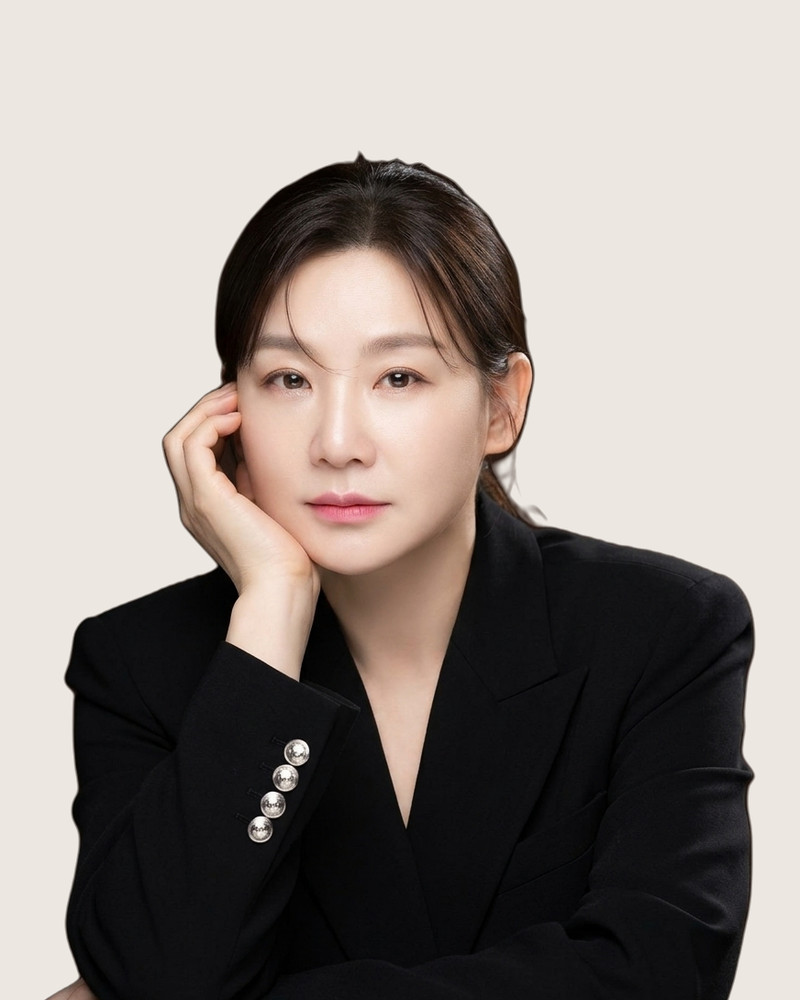
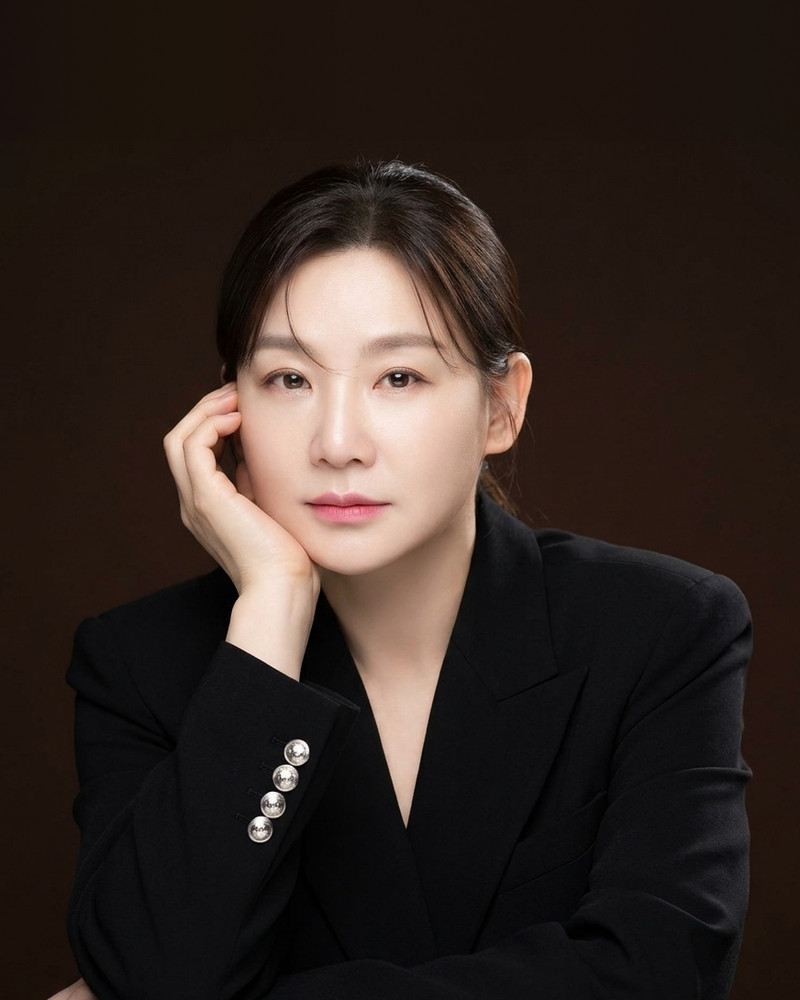
디자이너 사진을 원본 어두운 배경 그대로 교체

diff --git a/ja/designers/index.html b/ja/designers/index.html
@@ -317,7 +317,7 @@
     <nav class="designer-jump" aria-label="デザイナーへ移動"><a href="#designer-hyeona"><span class="nw">Hyeona</span>（<span class="nw">현아</span>）<small>副院長</small></a><a href="#designer-yumi"><span class="nw">Yumi</span>（<span class="nw">유미</span>）<small><span class="nw">ディレクター</span></small></a><a href="#designer-yeongju"><span class="nw">Yeongju</span>（<span class="nw">영주</span>）<small><span class="nw">ディレクター</span></small></a><a href="#designer-miji"><span class="nw">Miji</span> Lee（<span class="nw">이미지</span>）<small>副院長</small></a></nav>
     <div class="designer-grid">
       <article class="designer-card" id="designer-hyeona">
-        <img src="/images/designer-hyeona.jpg?v=c3d0188e" alt="清州市慕忠洞の美容室 RIAHN Hair Mochung SeowondaeのHyeona（현아） 副院長 - レイヤードCカール・CSカール・ビルドパーマ・ゼリーパーマ・ビンテージパーマ・アイロンパーマ・ホットパーマ・補修パーマ" width="800" height="1000" loading="eager" fetchpriority="high">
+        <img src="/images/designer-hyeona.jpg?v=7af24c1c" alt="清州市慕忠洞の美容室 RIAHN Hair Mochung SeowondaeのHyeona（현아） 副院長 - レイヤードCカール・CSカール・ビルドパーマ・ゼリーパーマ・ビンテージパーマ・アイロンパーマ・ホットパーマ・補修パーマ" width="800" height="1000" loading="eager" fetchpriority="high">
         <div class="designer-body">
           <div class="role"><span class="nw">Deputy</span> <span class="nw">Director</span></div>
           <h3><span class="ks"><span class="nw">Hyeona</span>（<span class="nw">현아</span>）</span> <small>副院長</small></h3>
@@ -328,7 +328,7 @@
         </div>
       </article>
       <article class="designer-card" id="designer-yumi">
-        <img src="/images/designer-yumi.jpg?v=b0565e35" alt="清州市慕忠洞の美容室 RIAHN Hair Mochung SeowondaeのYumi（유미） ディレクター - ビルドパーマ・ゼリーパーマ・ビンテージパーマ・補修パーマ・タッセルカット・ハッシュカット・ブリーチ・デザインカラー・パーソナルカラー" width="800" height="1000" loading="lazy">
+        <img src="/images/designer-yumi.jpg?v=ce866c8c" alt="清州市慕忠洞の美容室 RIAHN Hair Mochung SeowondaeのYumi（유미） ディレクター - ビルドパーマ・ゼリーパーマ・ビンテージパーマ・補修パーマ・タッセルカット・ハッシュカット・ブリーチ・デザインカラー・パーソナルカラー" width="800" height="1000" loading="lazy">
         <div class="designer-body">
           <div class="role"><span class="nw">Director</span></div>
           <h3><span class="ks"><span class="nw">Yumi</span>（<span class="nw">유미</span>）</span> <small><span class="nw">ディレクター</span></small></h3>
@@ -340,7 +340,7 @@
         </div>
       </article>
       <article class="designer-card" id="designer-yeongju">
-        <img src="/images/designer-yeongju.jpg?v=ee4fe6c3" alt="清州市慕忠洞の美容室 RIAHN Hair Mochung SeowondaeのYeongju（영주） ディレクター - ビルドパーマ・リーフパーマ・アイロンパーマ・CSカール・リーフカット" width="800" height="1000" loading="lazy">
+        <img src="/images/designer-yeongju.jpg?v=7cb0f3d3" alt="清州市慕忠洞の美容室 RIAHN Hair Mochung SeowondaeのYeongju（영주） ディレクター - ビルドパーマ・リーフパーマ・アイロンパーマ・CSカール・リーフカット" width="800" height="1000" loading="lazy">
         <div class="designer-body">
           <div class="role"><span class="nw">Director</span></div>
           <h3><span class="ks"><span class="nw">Yeongju</span>（<span class="nw">영주</span>）</span> <small><span class="nw">ディレクター</span></small></h3>
@@ -352,7 +352,7 @@
         </div>
       </article>
       <article class="designer-card" id="designer-miji">
-        <img src="/images/designer-miji.jpg?v=d2a24d91" alt="清州市慕忠洞の美容室 RIAHN Hair Mochung SeowondaeのMiji Lee（이미지） 副院長 - ビルドパーマ・CSパーマ・アイロンパーマ・リーフパーマ・毛流れ矯正・補修パーマ・ホットパーマ・アッシュグレー" width="800" height="1000" loading="lazy">
+        <img src="/images/designer-miji.jpg?v=e3ff4a35" alt="清州市慕忠洞の美容室 RIAHN Hair Mochung SeowondaeのMiji Lee（이미지） 副院長 - ビルドパーマ・CSパーマ・アイロンパーマ・リーフパーマ・毛流れ矯正・補修パーマ・ホットパーマ・アッシュグレー" width="800" height="1000" loading="lazy">
         <div class="designer-body">
           <div class="role"><span class="nw">Deputy</span> <span class="nw">Director</span></div>
           <h3><span class="ks"><span class="nw">Miji</span> Lee（<span class="nw">이미지</span>）</span> <small>副院長</small></h3>

diff --git a/zh/designers/index.html b/zh/designers/index.html
@@ -317,7 +317,7 @@
     <nav class="designer-jump" aria-label="快速查看设计师"><a href="#designer-hyeona"><span class="nw">Hyeona</span>（<span class="nw">현아</span>）<small>副<span class="nw">院长</span></small></a><a href="#designer-yumi"><span class="nw">Yumi</span>（<span class="nw">유미</span>）<small><span class="nw">总监</span></small></a><a href="#designer-yeongju"><span class="nw">Yeongju</span>（<span class="nw">영주</span>）<small><span class="nw">总监</span></small></a><a href="#designer-miji"><span class="nw">Miji</span> Lee（<span class="nw">이미지</span>）<small>副<span class="nw">院长</span></small></a></nav>
     <div class="designer-grid">
       <article class="designer-card" id="designer-hyeona">
-        <img src="/images/designer-hyeona.jpg?v=c3d0188e" alt="清州市慕忠洞美发沙龙 RIAHN Hair Mochung Seowondae Hyeona（현아） 副院长 - 层次C卷、CS卷、Build烫、果冻烫、复古烫、卷棒烫、热烫、修护烫" width="800" height="1000" loading="eager" fetchpriority="high">
+        <img src="/images/designer-hyeona.jpg?v=7af24c1c" alt="清州市慕忠洞美发沙龙 RIAHN Hair Mochung Seowondae Hyeona（현아） 副院长 - 层次C卷、CS卷、Build烫、果冻烫、复古烫、卷棒烫、热烫、修护烫" width="800" height="1000" loading="eager" fetchpriority="high">
         <div class="designer-body">
           <div class="role"><span class="nw">Deputy</span> <span class="nw">Director</span></div>
           <h3><span class="ks"><span class="nw">Hyeona</span>（<span class="nw">현아</span>）</span> <small>副<span class="nw">院长</span></small></h3>
@@ -328,7 +328,7 @@
         </div>
       </article>
       <article class="designer-card" id="designer-yumi">
-        <img src="/images/designer-yumi.jpg?v=b0565e35" alt="清州市慕忠洞美发沙龙 RIAHN Hair Mochung Seowondae Yumi（유미） 总监 - Build烫、果冻烫、复古烫、修护烫、流苏剪、Hush剪、漂发、设计染发、个人色彩染发" width="800" height="1000" loading="lazy">
+        <img src="/images/designer-yumi.jpg?v=ce866c8c" alt="清州市慕忠洞美发沙龙 RIAHN Hair Mochung Seowondae Yumi（유미） 总监 - Build烫、果冻烫、复古烫、修护烫、流苏剪、Hush剪、漂发、设计染发、个人色彩染发" width="800" height="1000" loading="lazy">
         <div class="designer-body">
           <div class="role"><span class="nw">Director</span></div>
           <h3><span class="ks"><span class="nw">Yumi</span>（<span class="nw">유미</span>）</span> <small><span class="nw">总监</span></small></h3>
@@ -340,7 +340,7 @@
         </div>
       </article>
       <article class="designer-card" id="designer-yeongju">
-        <img src="/images/designer-yeongju.jpg?v=ee4fe6c3" alt="清州市慕忠洞美发沙龙 RIAHN Hair Mochung Seowondae Yeongju（영주） 总监 - Build烫、叶子烫、卷棒烫、CS卷、叶子剪" width="800" height="1000" loading="lazy">
+        <img src="/images/designer-yeongju.jpg?v=7cb0f3d3" alt="清州市慕忠洞美发沙龙 RIAHN Hair Mochung Seowondae Yeongju（영주） 总监 - Build烫、叶子烫、卷棒烫、CS卷、叶子剪" width="800" height="1000" loading="lazy">
         <div class="designer-body">
           <div class="role"><span class="nw">Director</span></div>
           <h3><span class="ks"><span class="nw">Yeongju</span>（<span class="nw">영주</span>）</span> <small><span class="nw">总监</span></small></h3>
@@ -352,7 +352,7 @@
         </div>
       </article>
       <article class="designer-card" id="designer-miji">
-        <img src="/images/designer-miji.jpg?v=d2a24d91" alt="清州市慕忠洞美发沙龙 RIAHN Hair Mochung Seowondae Miji Lee（이미지） 副院长 - Build烫、CS烫、卷棒烫、叶子烫、发流矫正、修护烫、热烫、烟灰色" width="800" height="1000" loading="lazy">
+        <img src="/images/designer-miji.jpg?v=e3ff4a35" alt="清州市慕忠洞美发沙龙 RIAHN Hair Mochung Seowondae Miji Lee（이미지） 副院长 - Build烫、CS烫、卷棒烫、叶子烫、发流矫正、修护烫、热烫、烟灰色" width="800" height="1000" loading="lazy">
         <div class="designer-body">
           <div class="role"><span class="nw">Deputy</span> <span class="nw">Director</span></div>
           <h3><span class="ks"><span class="nw">Miji</span> Lee（<span class="nw">이미지</span>）</span> <small>副<span class="nw">院长</span></small></h3>

diff --git a/en/designers/index.html b/en/designers/index.html
@@ -317,7 +317,7 @@
     <nav class="designer-jump" aria-label="Jump to a designer"><a href="#designer-hyeona">Hyeona<small>Deputy Director</small></a><a href="#designer-yumi">Yumi<small>Director</small></a><a href="#designer-yeongju">Yeongju<small>Director</small></a><a href="#designer-miji">Miji Lee<small>Deputy Director</small></a></nav>
     <div class="designer-grid">
       <article class="designer-card" id="designer-hyeona">
-        <img src="/images/designer-hyeona.jpg?v=c3d0188e" alt="Hyeona, Deputy Director - Layered C-curl · CS curl · Build perm · Jelly perm · Vintage perm · Iron perm · Heat perm · Repair perm at RIAHN Hair Mochung Seowondae, Mochung-dong, Cheongju" width="800" height="1000" loading="eager" fetchpriority="high">
+        <img src="/images/designer-hyeona.jpg?v=7af24c1c" alt="Hyeona, Deputy Director - Layered C-curl · CS curl · Build perm · Jelly perm · Vintage perm · Iron perm · Heat perm · Repair perm at RIAHN Hair Mochung Seowondae, Mochung-dong, Cheongju" width="800" height="1000" loading="eager" fetchpriority="high">
         <div class="designer-body">
           <div class="role">Deputy Director</div>
           <h3><span class="ks">Hyeona</span> <small>Deputy Director</small></h3>
@@ -328,7 +328,7 @@
         </div>
       </article>
       <article class="designer-card" id="designer-yumi">
-        <img src="/images/designer-yumi.jpg?v=b0565e35" alt="Yumi, Director - Build perm · Jelly perm · Vintage perm · Repair perm · Tassel cut · Hush cut · Bleach · Design color · Personal color at RIAHN Hair Mochung Seowondae, Mochung-dong, Cheongju" width="800" height="1000" loading="lazy">
+        <img src="/images/designer-yumi.jpg?v=ce866c8c" alt="Yumi, Director - Build perm · Jelly perm · Vintage perm · Repair perm · Tassel cut · Hush cut · Bleach · Design color · Personal color at RIAHN Hair Mochung Seowondae, Mochung-dong, Cheongju" width="800" height="1000" loading="lazy">
         <div class="designer-body">
           <div class="role">Director</div>
           <h3><span class="ks">Yumi</span> <small>Director</small></h3>
@@ -340,7 +340,7 @@
         </div>
       </article>
       <article class="designer-card" id="designer-yeongju">
-        <img src="/images/designer-yeongju.jpg?v=ee4fe6c3" alt="Yeongju, Director - Build perm · Leaf perm · Iron perm · CS curl · Leaf cut at RIAHN Hair Mochung Seowondae, Mochung-dong, Cheongju" width="800" height="1000" loading="lazy">
+        <img src="/images/designer-yeongju.jpg?v=7cb0f3d3" alt="Yeongju, Director - Build perm · Leaf perm · Iron perm · CS curl · Leaf cut at RIAHN Hair Mochung Seowondae, Mochung-dong, Cheongju" width="800" height="1000" loading="lazy">
         <div class="designer-body">
           <div class="role">Director</div>
           <h3><span class="ks">Yeongju</span> <small>Director</small></h3>
@@ -352,7 +352,7 @@
         </div>
       </article>
       <article class="designer-card" id="designer-miji">
-        <img src="/images/designer-miji.jpg?v=d2a24d91" alt="Miji Lee, Deputy Director - Build perm · CS perm · Iron perm · Leaf perm · Cowlick correction · Repair perm · Heat perm · Ash gray at RIAHN Hair Mochung Seowondae, Mochung-dong, Cheongju" width="800" height="1000" loading="lazy">
+        <img src="/images/designer-miji.jpg?v=e3ff4a35" alt="Miji Lee, Deputy Director - Build perm · CS perm · Iron perm · Leaf perm · Cowlick correction · Repair perm · Heat perm · Ash gray at RIAHN Hair Mochung Seowondae, Mochung-dong, Cheongju" width="800" height="1000" loading="lazy">
         <div class="designer-body">
           <div class="role">Deputy Director</div>
           <h3><span class="ks">Miji Lee</span> <small>Deputy Director</small></h3>

diff --git a/designers/index.html b/designers/index.html
@@ -327,7 +327,7 @@
     <nav class="designer-jump" aria-label="디자이너 바로 가기"><a href="#designer-hyeona">현아<small>부원장</small></a><a href="#designer-yumi">유미<small>실장</small></a><a href="#designer-yeongju">영주<small>실장</small></a><a href="#designer-miji">이미지<small>부원장</small></a></nav>
     <div class="designer-grid">
       <article class="designer-card" id="designer-hyeona">
-        <img src="/images/designer-hyeona.jpg?v=c3d0188e" alt="리안헤어 모충동서원대점 모충동 미용실 현아 부원장 - 레이어드 C컬 · CS컬 · 빌드펌 · 젤리펌 · 빈티지펌 · 아이롱펌 · 열펌 · 복구펌" width="800" height="1000" loading="eager" fetchpriority="high">
+        <img src="/images/designer-hyeona.jpg?v=7af24c1c" alt="리안헤어 모충동서원대점 모충동 미용실 현아 부원장 - 레이어드 C컬 · CS컬 · 빌드펌 · 젤리펌 · 빈티지펌 · 아이롱펌 · 열펌 · 복구펌" width="800" height="1000" loading="eager" fetchpriority="high">
         <div class="designer-body">
           <div class="role">Deputy Director</div>
           <h3><span class="ks">현아</span> <small>부원장</small></h3>
@@ -338,7 +338,7 @@
         </div>
       </article>
       <article class="designer-card" id="designer-yumi">
-        <img src="/images/designer-yumi.jpg?v=b0565e35" alt="리안헤어 모충동서원대점 모충동 미용실 유미 실장 - 빌드펌 · 젤리펌 · 빈티지펌 · 복구펌 · 태슬컷 · 허쉬컷 · 탈색 · 디자인 염색 · 퍼스널 컬러" width="800" height="1000" loading="lazy">
+        <img src="/images/designer-yumi.jpg?v=ce866c8c" alt="리안헤어 모충동서원대점 모충동 미용실 유미 실장 - 빌드펌 · 젤리펌 · 빈티지펌 · 복구펌 · 태슬컷 · 허쉬컷 · 탈색 · 디자인 염색 · 퍼스널 컬러" width="800" height="1000" loading="lazy">
         <div class="designer-body">
           <div class="role">Director</div>
           <h3><span class="ks">유미</span> <small>실장</small></h3>
@@ -350,7 +350,7 @@
         </div>
       </article>
       <article class="designer-card" id="designer-yeongju">
-        <img src="/images/designer-yeongju.jpg?v=ee4fe6c3" alt="리안헤어 모충동서원대점 모충동 미용실 영주 실장 - 빌드펌 · 리프펌 · 아이롱펌 · CS컬 · 리프컷" width="800" height="1000" loading="lazy">
+        <img src="/images/designer-yeongju.jpg?v=7cb0f3d3" alt="리안헤어 모충동서원대점 모충동 미용실 영주 실장 - 빌드펌 · 리프펌 · 아이롱펌 · CS컬 · 리프컷" width="800" height="1000" loading="lazy">
         <div class="designer-body">
           <div class="role">Director</div>
           <h3><span class="ks">영주</span> <small>실장</small></h3>
@@ -362,7 +362,7 @@
         </div>
       </article>
       <article class="designer-card" id="designer-miji">
-        <img src="/images/designer-miji.jpg?v=d2a24d91" alt="리안헤어 모충동서원대점 모충동 미용실 이미지 부원장 - 빌드펌 · CS펌 · 아이롱펌 · 리프펌 · 모류교정 · 복구펌 · 열펌 · 애쉬그레이" width="800" height="1000" loading="lazy">
+        <img src="/images/designer-miji.jpg?v=e3ff4a35" alt="리안헤어 모충동서원대점 모충동 미용실 이미지 부원장 - 빌드펌 · CS펌 · 아이롱펌 · 리프펌 · 모류교정 · 복구펌 · 열펌 · 애쉬그레이" width="800" height="1000" loading="lazy">
         <div class="designer-body">
           <div class="role">Deputy Director</div>
           <h3><span class="ks">이미지</span> <small>부원장</small></h3>

diff --git a/ja/index.html b/ja/index.html
@@ -312,7 +312,7 @@
     </div>
     <div class="designer-grid">
       <article class="designer-card">
-        <img src="/images/designer-hyeona.jpg?v=c3d0188e" alt="清州市慕忠洞の美容室 RIAHN Hair Mochung SeowondaeのHyeona（현아） 副院長 - レイヤードCカール・CSカール・ビルドパーマ・ゼリーパーマ・ビンテージパーマ・アイロンパーマ・ホットパーマ・補修パーマ" width="800" height="1000" loading="lazy">
+        <img src="/images/designer-hyeona.jpg?v=7af24c1c" alt="清州市慕忠洞の美容室 RIAHN Hair Mochung SeowondaeのHyeona（현아） 副院長 - レイヤードCカール・CSカール・ビルドパーマ・ゼリーパーマ・ビンテージパーマ・アイロンパーマ・ホットパーマ・補修パーマ" width="800" height="1000" loading="lazy">
         <div class="designer-body">
           <div class="role"><span class="nw">Deputy</span> <span class="nw">Director</span></div>
           <h3><span class="ks"><span class="nw">Hyeona</span>（<span class="nw">현아</span>）</span> <small>副院長</small></h3>
@@ -320,7 +320,7 @@
         </div>
       </article>
       <article class="designer-card">
-        <img src="/images/designer-yumi.jpg?v=b0565e35" alt="清州市慕忠洞の美容室 RIAHN Hair Mochung SeowondaeのYumi（유미） ディレクター - ビルドパーマ・ゼリーパーマ・ビンテージパーマ・補修パーマ・タッセルカット・ハッシュカット・ブリーチ・デザインカラー・パーソナルカラー" width="800" height="1000" loading="lazy">
+        <img src="/images/designer-yumi.jpg?v=ce866c8c" alt="清州市慕忠洞の美容室 RIAHN Hair Mochung SeowondaeのYumi（유미） ディレクター - ビルドパーマ・ゼリーパーマ・ビンテージパーマ・補修パーマ・タッセルカット・ハッシュカット・ブリーチ・デザインカラー・パーソナルカラー" width="800" height="1000" loading="lazy">
         <div class="designer-body">
           <div class="role"><span class="nw">Director</span></div>
           <h3><span class="ks"><span class="nw">Yumi</span>（<span class="nw">유미</span>）</span> <small><span class="nw">ディレクター</span></small></h3>
@@ -329,7 +329,7 @@
         </div>
       </article>
       <article class="designer-card">
-        <img src="/images/designer-yeongju.jpg?v=ee4fe6c3" alt="清州市慕忠洞の美容室 RIAHN Hair Mochung SeowondaeのYeongju（영주） ディレクター - ビルドパーマ・リーフパーマ・アイロンパーマ・CSカール・リーフカット" width="800" height="1000" loading="lazy">
+        <img src="/images/designer-yeongju.jpg?v=7cb0f3d3" alt="清州市慕忠洞の美容室 RIAHN Hair Mochung SeowondaeのYeongju（영주） ディレクター - ビルドパーマ・リーフパーマ・アイロンパーマ・CSカール・リーフカット" width="800" height="1000" loading="lazy">
         <div class="designer-body">
           <div class="role"><span class="nw">Director</span></div>
           <h3><span class="ks"><span class="nw">Yeongju</span>（<span class="nw">영주</span>）</span> <small><span class="nw">ディレクター</span></small></h3>

diff --git a/zh/index.html b/zh/index.html
@@ -312,7 +312,7 @@
     </div>
     <div class="designer-grid">
       <article class="designer-card">
-        <img src="/images/designer-hyeona.jpg?v=c3d0188e" alt="清州市慕忠洞美发沙龙 RIAHN Hair Mochung Seowondae Hyeona（현아） 副院长 - 层次C卷、CS卷、Build烫、果冻烫、复古烫、卷棒烫、热烫、修护烫" width="800" height="1000" loading="lazy">
+        <img src="/images/designer-hyeona.jpg?v=7af24c1c" alt="清州市慕忠洞美发沙龙 RIAHN Hair Mochung Seowondae Hyeona（현아） 副院长 - 层次C卷、CS卷、Build烫、果冻烫、复古烫、卷棒烫、热烫、修护烫" width="800" height="1000" loading="lazy">
         <div class="designer-body">
           <div class="role"><span class="nw">Deputy</span> <span class="nw">Director</span></div>
           <h3><span class="ks"><span class="nw">Hyeona</span>（<span class="nw">현아</span>）</span> <small>副<span class="nw">院长</span></small></h3>
@@ -320,7 +320,7 @@
         </div>
       </article>
       <article class="designer-card">
-        <img src="/images/designer-yumi.jpg?v=b0565e35" alt="清州市慕忠洞美发沙龙 RIAHN Hair Mochung Seowondae Yumi（유미） 总监 - Build烫、果冻烫、复古烫、修护烫、流苏剪、Hush剪、漂发、设计染发、个人色彩染发" width="800" height="1000" loading="lazy">
+        <img src="/images/designer-yumi.jpg?v=ce866c8c" alt="清州市慕忠洞美发沙龙 RIAHN Hair Mochung Seowondae Yumi（유미） 总监 - Build烫、果冻烫、复古烫、修护烫、流苏剪、Hush剪、漂发、设计染发、个人色彩染发" width="800" height="1000" loading="lazy">
         <div class="designer-body">
           <div class="role"><span class="nw">Director</span></div>
           <h3><span class="ks"><span class="nw">Yumi</span>（<span class="nw">유미</span>）</span> <small><span class="nw">总监</span></small></h3>
@@ -329,7 +329,7 @@
         </div>
       </article>
       <article class="designer-card">
-        <img src="/images/designer-yeongju.jpg?v=ee4fe6c3" alt="清州市慕忠洞美发沙龙 RIAHN Hair Mochung Seowondae Yeongju（영주） 总监 - Build烫、叶子烫、卷棒烫、CS卷、叶子剪" width="800" height="1000" loading="lazy">
+        <img src="/images/designer-yeongju.jpg?v=7cb0f3d3" alt="清州市慕忠洞美发沙龙 RIAHN Hair Mochung Seowondae Yeongju（영주） 总监 - Build烫、叶子烫、卷棒烫、CS卷、叶子剪" width="800" height="1000" loading="lazy">
         <div class="designer-body">
           <div class="role"><span class="nw">Director</span></div>
           <h3><span class="ks"><span class="nw">Yeongju</span>（<span class="nw">영주</span>）</span> <small><span class="nw">总监</span></small></h3>

diff --git a/en/index.html b/en/index.html
@@ -312,7 +312,7 @@
     </div>
     <div class="designer-grid">
       <article class="designer-card">
-        <img src="/images/designer-hyeona.jpg?v=c3d0188e" alt="Hyeona, Deputy Director - Layered C-curl · CS curl · Build perm · Jelly perm · Vintage perm · Iron perm · Heat perm · Repair perm at RIAHN Hair Mochung Seowondae, Mochung-dong, Cheongju" width="800" height="1000" loading="lazy">
+        <img src="/images/designer-hyeona.jpg?v=7af24c1c" alt="Hyeona, Deputy Director - Layered C-curl · CS curl · Build perm · Jelly perm · Vintage perm · Iron perm · Heat perm · Repair perm at RIAHN Hair Mochung Seowondae, Mochung-dong, Cheongju" width="800" height="1000" loading="lazy">
         <div class="designer-body">
           <div class="role">Deputy Director</div>
           <h3><span class="ks">Hyeona</span> <small>Deputy Director</small></h3>
@@ -320,7 +320,7 @@
         </div>
       </article>
       <article class="designer-card">
-        <img src="/images/designer-yumi.jpg?v=b0565e35" alt="Yumi, Director - Build perm · Jelly perm · Vintage perm · Repair perm · Tassel cut · Hush cut · Bleach · Design color · Personal color at RIAHN Hair Mochung Seowondae, Mochung-dong, Cheongju" width="800" height="1000" loading="lazy">
+        <img src="/images/designer-yumi.jpg?v=ce866c8c" alt="Yumi, Director - Build perm · Jelly perm · Vintage perm · Repair perm · Tassel cut · Hush cut · Bleach · Design color · Personal color at RIAHN Hair Mochung Seowondae, Mochung-dong, Cheongju" width="800" height="1000" loading="lazy">
         <div class="designer-body">
           <div class="role">Director</div>
           <h3><span class="ks">Yumi</span> <small>Director</small></h3>
@@ -329,7 +329,7 @@
         </div>
       </article>
       <article class="designer-card">
-        <img src="/images/designer-yeongju.jpg?v=ee4fe6c3" alt="Yeongju, Director - Build perm · Leaf perm · Iron perm · CS curl · Leaf cut at RIAHN Hair Mochung Seowondae, Mochung-dong, Cheongju" width="800" height="1000" loading="lazy">
+        <img src="/images/designer-yeongju.jpg?v=7cb0f3d3" alt="Yeongju, Director - Build perm · Leaf perm · Iron perm · CS curl · Leaf cut at RIAHN Hair Mochung Seowondae, Mochung-dong, Cheongju" width="800" height="1000" loading="lazy">
         <div class="designer-body">
           <div class="role">Director</div>
           <h3><span class="ks">Yeongju</span> <small>Director</small></h3>

diff --git a/index.html b/index.html
@@ -314,7 +314,7 @@
     </div>
     <div class="designer-grid">
       <article class="designer-card">
-        <img src="/images/designer-hyeona.jpg?v=c3d0188e" alt="리안헤어 모충동서원대점 모충동 미용실 현아 부원장 - 레이어드 C컬 · CS컬 · 빌드펌 · 젤리펌 · 빈티지펌 · 아이롱펌 · 열펌 · 복구펌" width="800" height="1000" loading="lazy">
+        <img src="/images/designer-hyeona.jpg?v=7af24c1c" alt="리안헤어 모충동서원대점 모충동 미용실 현아 부원장 - 레이어드 C컬 · CS컬 · 빌드펌 · 젤리펌 · 빈티지펌 · 아이롱펌 · 열펌 · 복구펌" width="800" height="1000" loading="lazy">
         <div class="designer-body">
           <div class="role">Deputy Director</div>
           <h3><span class="ks">현아</span> <small>부원장</small></h3>
@@ -322,7 +322,7 @@
         </div>
       </article>
       <article class="designer-card">
-        <img src="/images/designer-yumi.jpg?v=b0565e35" alt="리안헤어 모충동서원대점 모충동 미용실 유미 실장 - 빌드펌 · 젤리펌 · 빈티지펌 · 복구펌 · 태슬컷 · 허쉬컷 · 탈색 · 디자인 염색 · 퍼스널 컬러" width="800" height="1000" loading="lazy">
+        <img src="/images/designer-yumi.jpg?v=ce866c8c" alt="리안헤어 모충동서원대점 모충동 미용실 유미 실장 - 빌드펌 · 젤리펌 · 빈티지펌 · 복구펌 · 태슬컷 · 허쉬컷 · 탈색 · 디자인 염색 · 퍼스널 컬러" width="800" height="1000" loading="lazy">
         <div class="designer-body">
           <div class="role">Director</div>
           <h3><span class="ks">유미</span> <small>실장</small></h3>
@@ -331,7 +331,7 @@
         </div>
       </article>
       <article class="designer-card">
-        <img src="/images/designer-yeongju.jpg?v=ee4fe6c3" alt="리안헤어 모충동서원대점 모충동 미용실 영주 실장 - 빌드펌 · 리프펌 · 아이롱펌 · CS컬 · 리프컷" width="800" height="1000" loading="lazy">
+        <img src="/images/designer-yeongju.jpg?v=7cb0f3d3" alt="리안헤어 모충동서원대점 모충동 미용실 영주 실장 - 빌드펌 · 리프펌 · 아이롱펌 · CS컬 · 리프컷" width="800" height="1000" loading="lazy">
         <div class="designer-body">
           <div class="role">Director</div>
           <h3><span class="ks">영주</span> <small>실장</small></h3>
